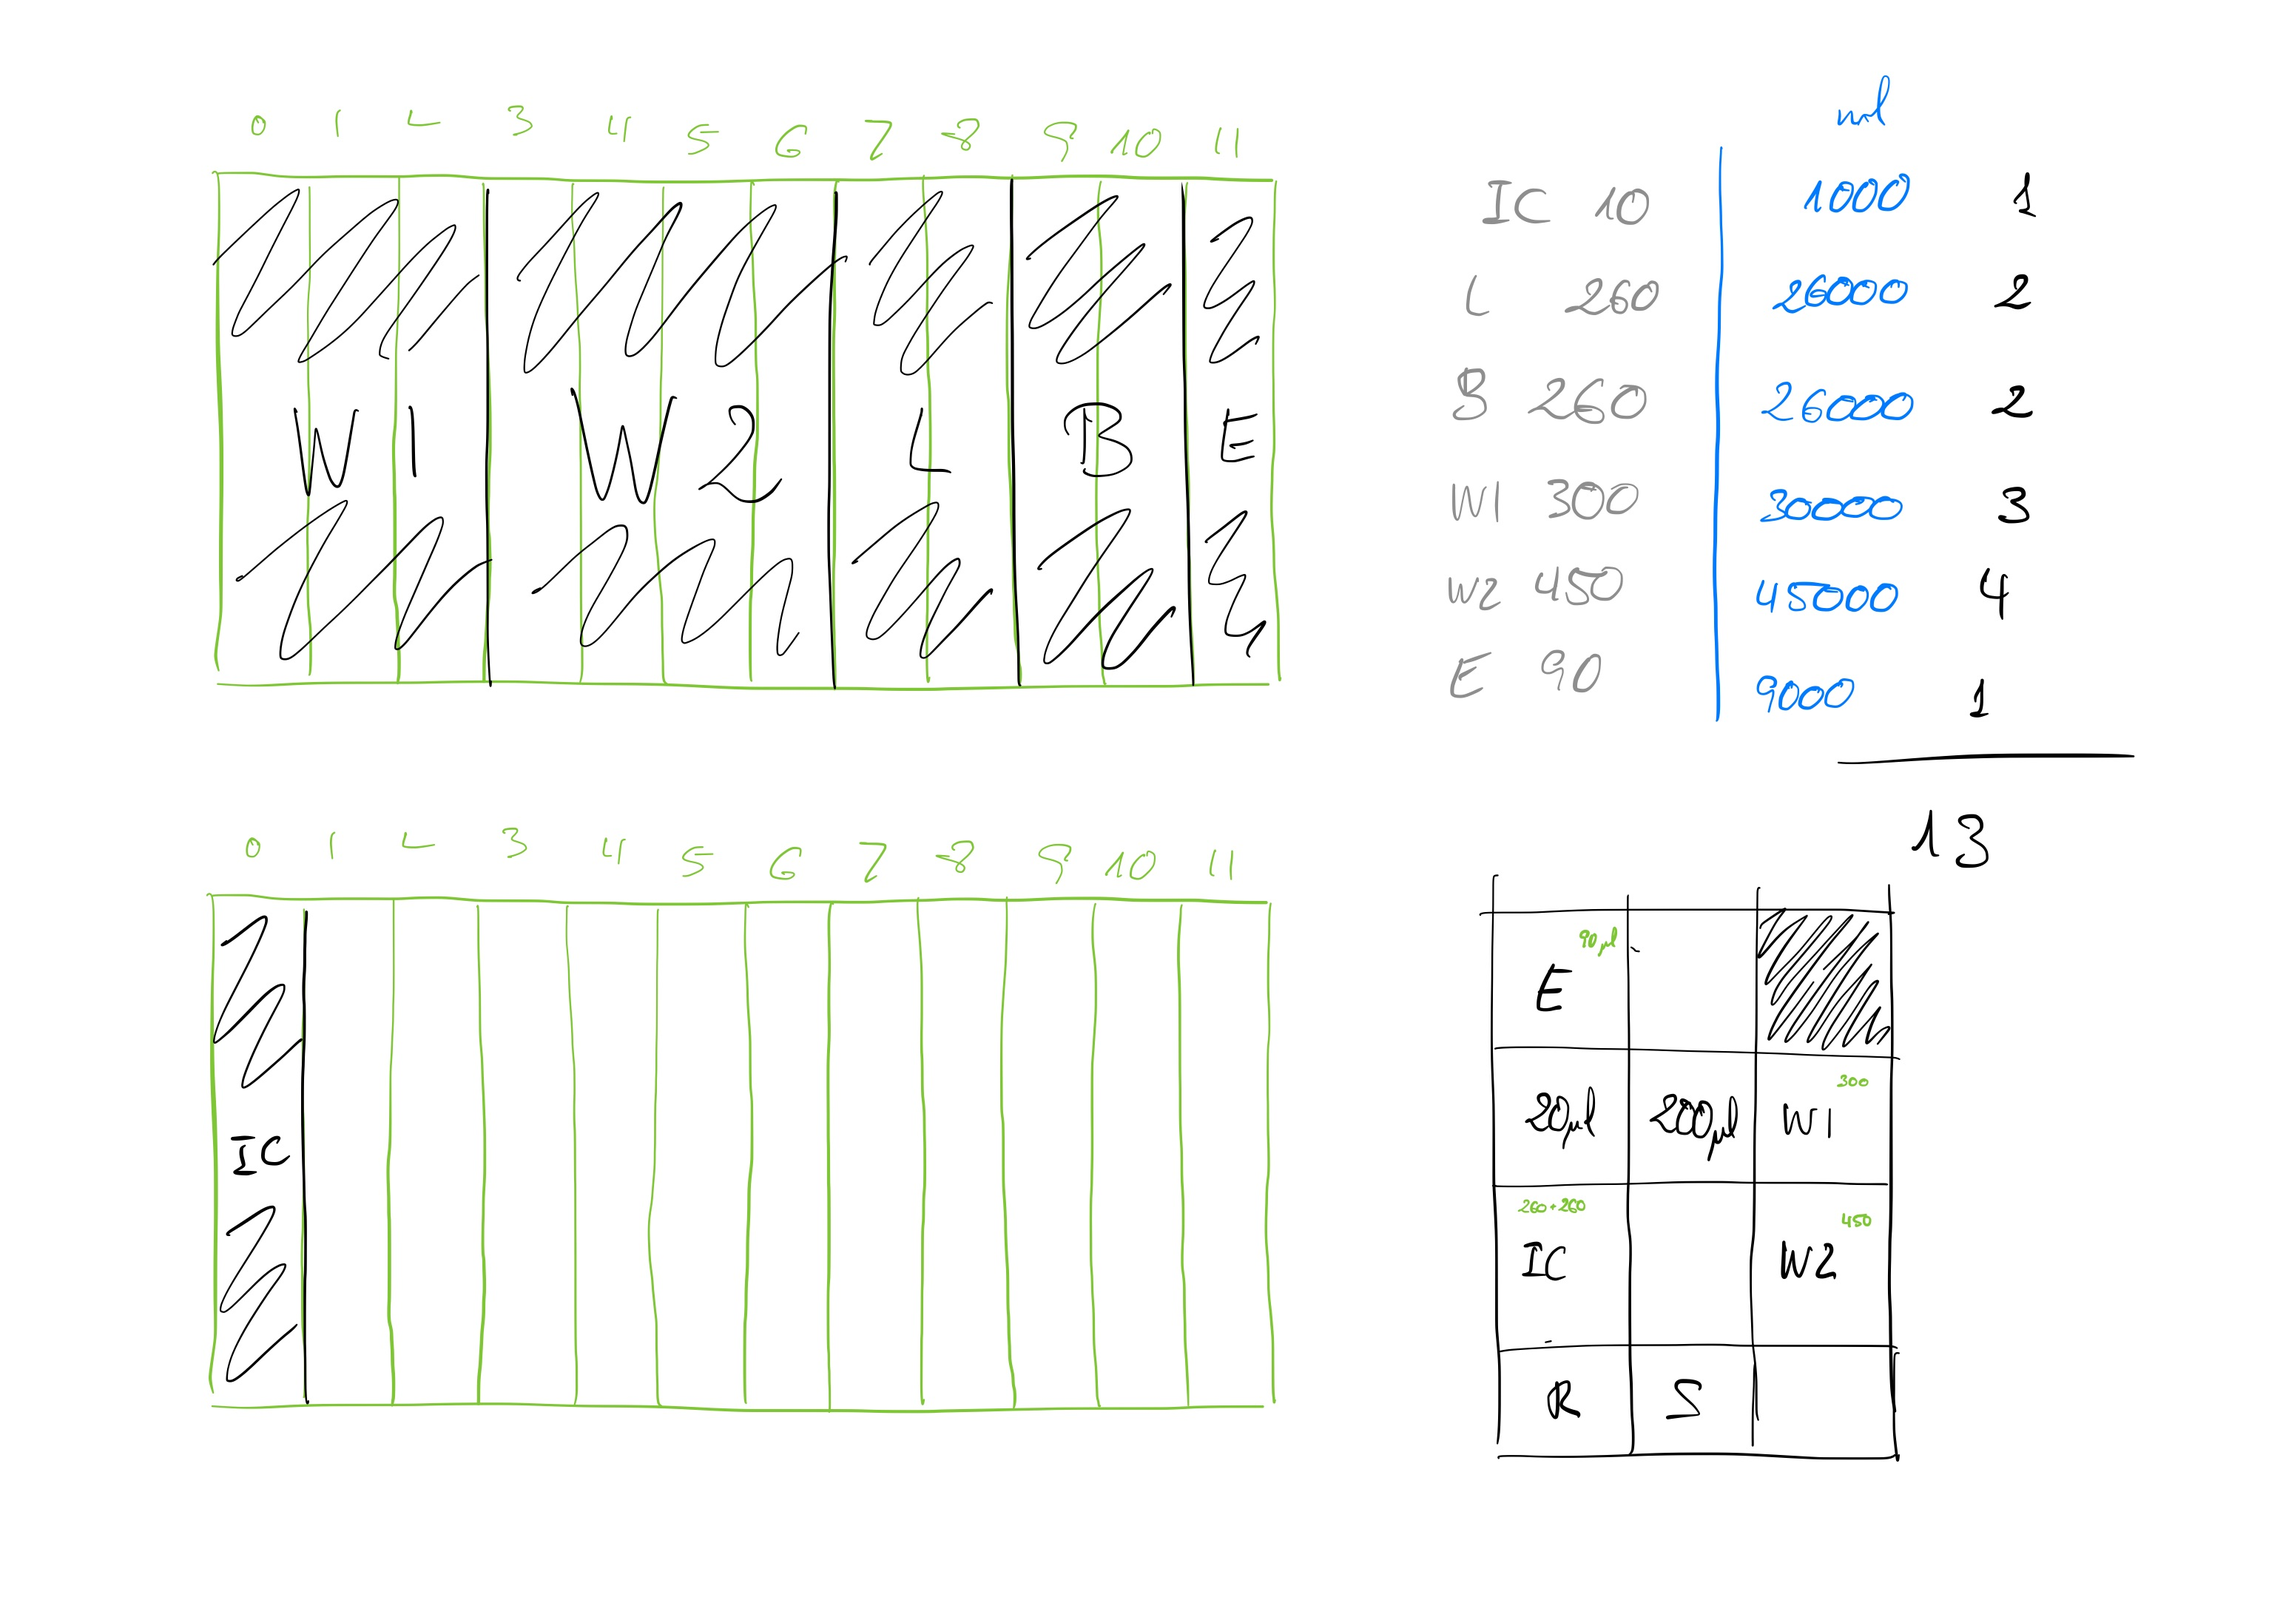
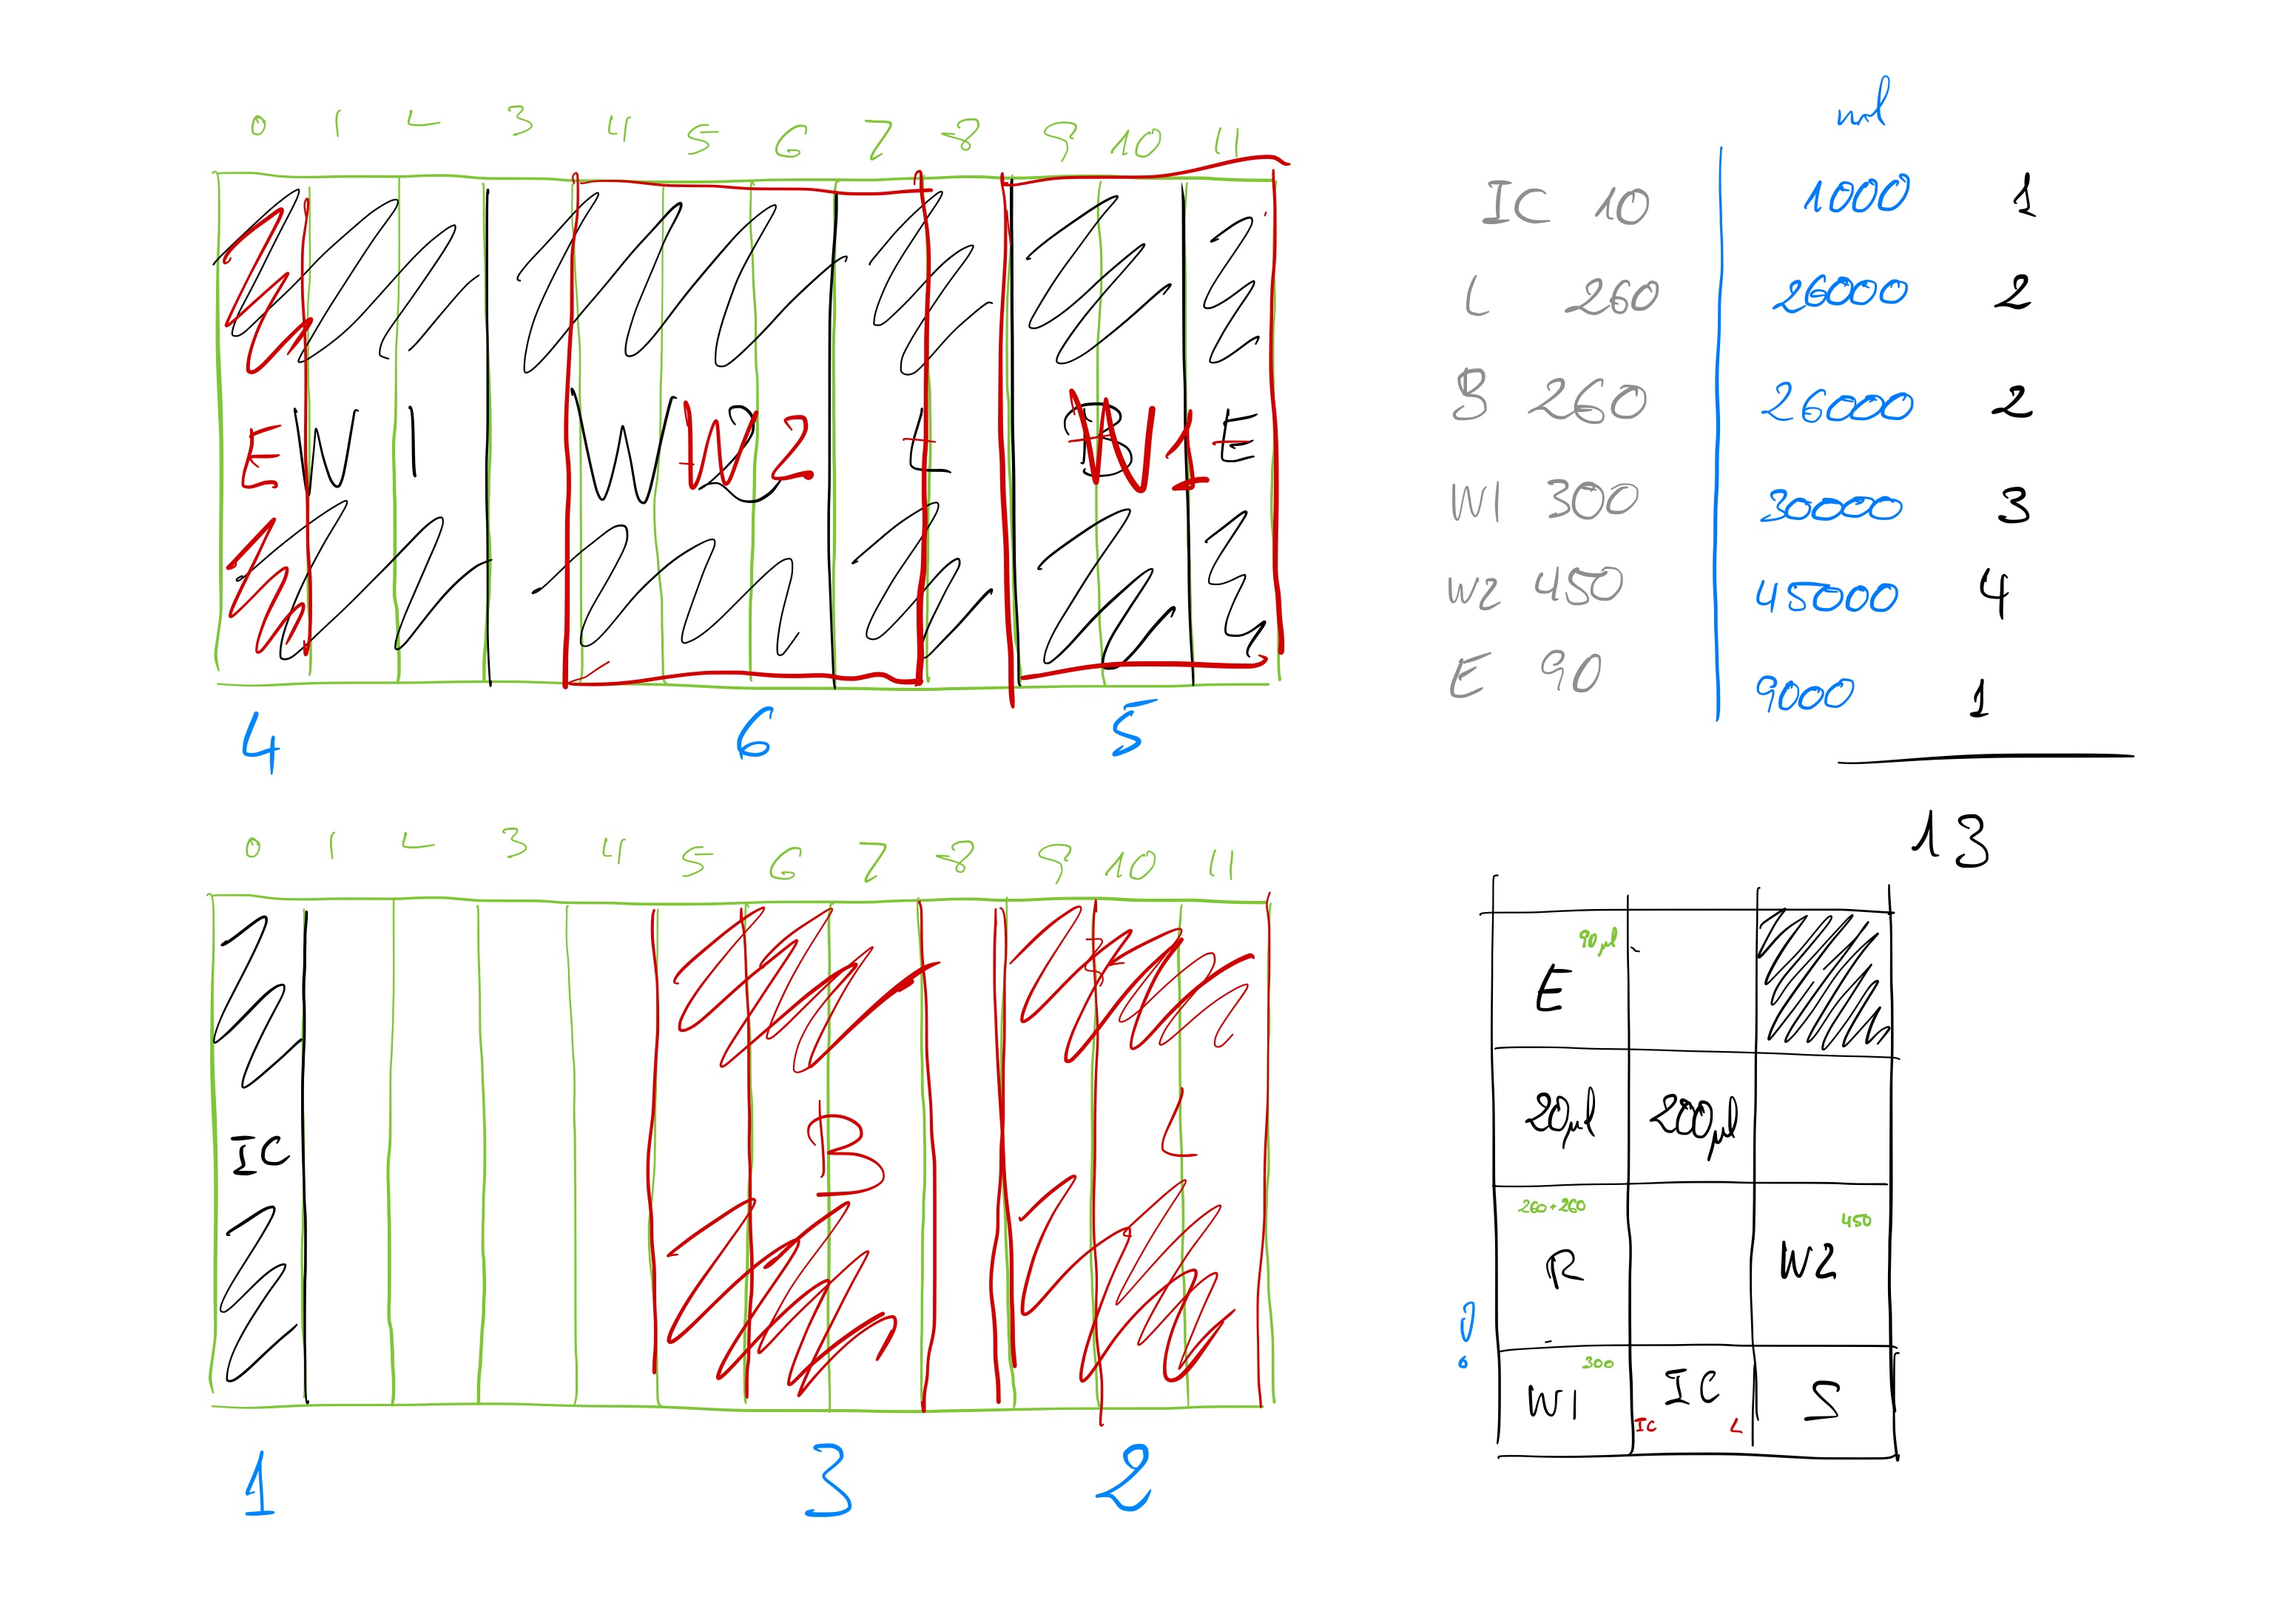
Update Kingfisher Pathogen codes

diff --git a/KingFisher_pathogen_core/KB_station.py b/KingFisher_pathogen_core/KB_station.py
@@ -35,10 +35,10 @@ lysis_vol = 260
 beads_vol = 260
 elution_buffer_vol = 90
 wash_buffer1_vol = 300
-wash_buffer2_vol = 300
+wash_buffer2_vol = 450
 waiting = 10 # minutes
 pipette_allowed_capacity=180
-max_multiwell_volume = 13500
+max_multiwell_volume = 13300
 
 
 run_id =  '$run_id'
@@ -57,8 +57,8 @@ def run(ctx: protocol_api.ProtocolContext):
         2: {'Execute': True, 'description': 'Add 260 ul Lysis Buffer'},
         3: {'Execute': True, 'description': 'Wait for 10 minutes', 'wait_time': 600}, # 10 minutes of waiting
         4: {'Execute': True, 'description': 'Add 260 ul Beads'},
-        5: {'Execute': True, 'description': 'Add 300 ul Wash Buffer 1 - Round 1'},
-        6: {'Execute': True, 'description': 'Add 450 ul Wash Buffer 2 - Round 1'},
+        5: {'Execute': True, 'description': 'Add 300 ul Wash Buffer 1'},
+        6: {'Execute': True, 'description': 'Add 450 ul Wash Buffer 2'},
         7: {'Execute': True, 'description': 'Add 90 ul Elution Buffer'}
         }
 
@@ -298,16 +298,16 @@ def run(ctx: protocol_api.ProtocolContext):
     # 12 well rack
     ####################################
     reagent_res = ctx.load_labware(
-        'nest_12_reservoir_15ml', '1', 'Reservoir 12 channel, column 1')
+        'nest_12_reservoir_15ml', '4', 'Reservoir 12 channel, column 1')
 
     ic_res = ctx.load_labware(
-        'nest_12_reservoir_15ml', '4', 'Reservoir 12 channel, column 1')
+        'nest_12_reservoir_15ml', '2', 'Reservoir 12 channel, column 1')
 
 
     # Wash Buffer 1 100ul Deepwell plate
     ############################################
     WashBuffer1_100ul_plate1 = ctx.load_labware(
-        'kf_96_wellplate_2400ul', '9', 'Wash Buffer 1 Deepwell plate 1')
+        'kf_96_wellplate_2400ul', '1', 'Wash Buffer 1 Deepwell plate 1')
 
     # Wash Buffer 2 100ul Deepwell plate
     ############################################
@@ -334,23 +334,25 @@ def run(ctx: protocol_api.ProtocolContext):
 
 ################################################################################
     # Declare which reagents are in each reservoir as well as deepwell and elution plate
-    WashBuffer1.reagent_reservoir = reagent_res.rows(
-    )[0][:3] # position 1, 3 columns
+    # reservoir 1 (R)
+    ElutionBuffer.reagent_reservoir = reagent_res.rows(
+    )[0][:1] #position 1, 1 column 0
 
     WashBuffer2.reagent_reservoir = reagent_res.rows(
-    )[0][3:7] #position 2, 3 columns
+    )[0][4:8] #position 2, 4 columns from 4 to 7
 
-    Lysis.reagent_reservoir = reagent_res.rows(
-    )[0][7:9] #position 3, 2 columns
+    WashBuffer1.reagent_reservoir = reagent_res.rows(
+    )[0][9:] # position 3, 3 columns from 9 to 11
+
+    # reservoir 2 (IC)
+    IC.reagent_reservoir = ic_res.rows(
+    )[0][:1] #position 1, column 0
 
     Beads.reagent_reservoir = reagent_res.rows(
-    )[0][9:11] #position 4, 2 columns
+    )[0][5:8] #position 2, 3 columns from 5 to 7
 
-    ElutionBuffer.reagent_reservoir = reagent_res.rows(
-    )[0][11:] #position 5, 1 column
-
-    IC.reagent_reservoir = ic_res.rows(
-    )[0][:1] #position 1
+    Lysis.reagent_reservoir = ic_res.rows(
+    )[0][9:] #position 3, 3 columns from 9 to 11
 
     # columns in destination plates to be filled depending the number of samples
     wb1plate1_destination = WashBuffer1_100ul_plate1.rows()[0][:num_cols]

diff --git a/KingFisher_pathogen_core/Deprecated/KB_station_partial_dispense_IC.py b/KingFisher_pathogen_core/Deprecated/KB_station_partial_dispense_IC.py
@@ -35,7 +35,7 @@ lysis_vol = 260
 beads_vol = 260
 elution_buffer_vol = 90
 wash_buffer1_vol = 300
-wash_buffer2_vol = 300
+wash_buffer2_vol = 450
 waiting = 10 # minutes
 pipette_allowed_capacity=180
 max_multiwell_volume = 13500
